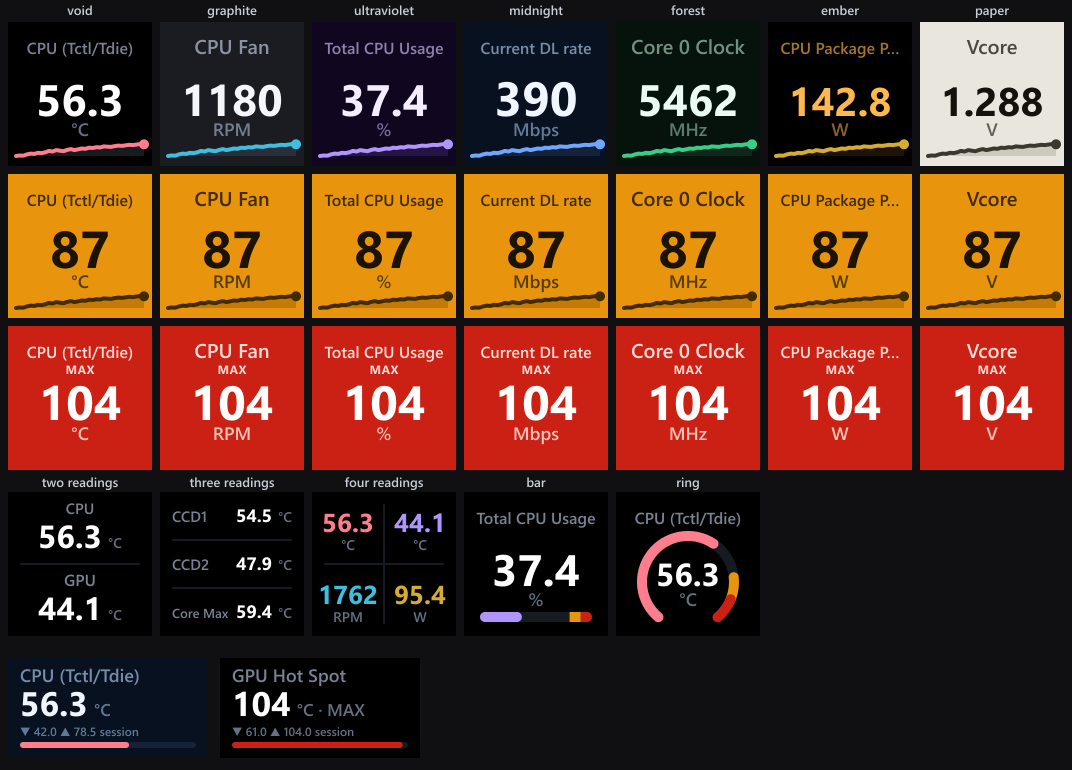
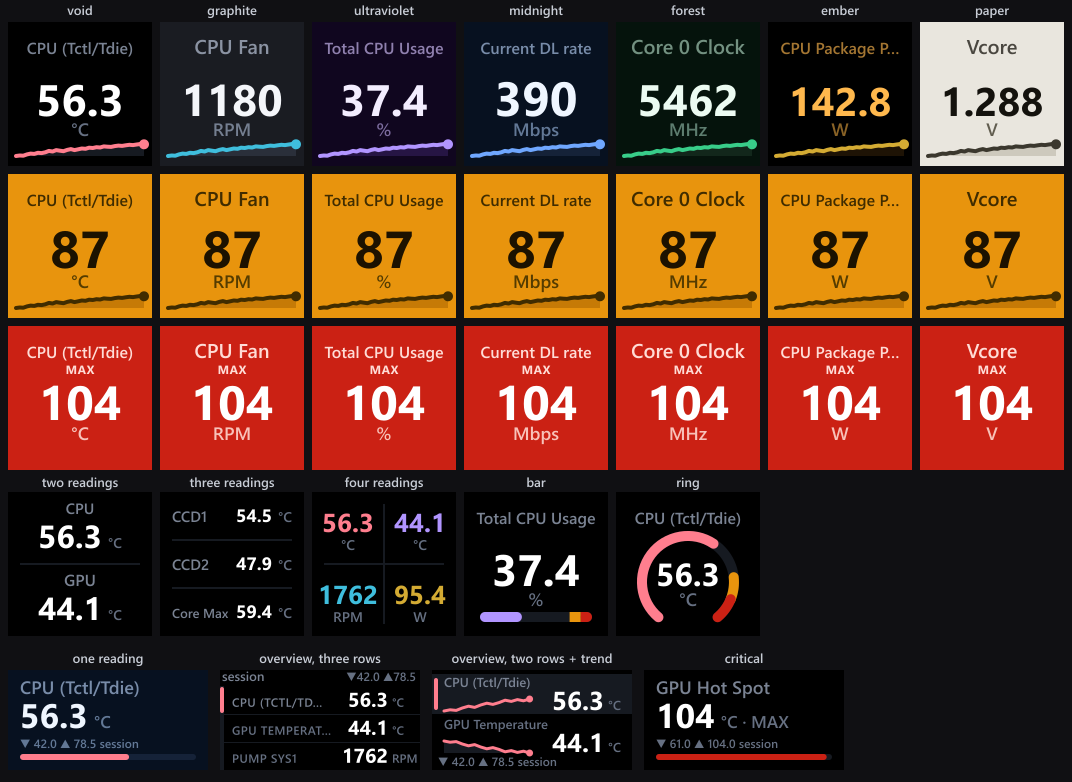
docs(marketing): the touchscreen faces join the hero sheet, at true scale
The sheet showed key faces only. Both multi-row touchscreen views, which are
the reason a Stream Deck + is worth owning with this plugin, appeared nowhere
in the image most readers see first.

It now ends with four touchscreen faces: one reading, the three-row overview,
the two-row overview with trend sparklines, and a critical state. Every face
on the sheet is drawn at 1x, so a 144x144 key sits next to a 200x100
touchscreen slot at the real hardware ratio. That is the point of putting them
in one image: a tall square and a wide short strip are different surfaces, and
scaling either to look tidy would hide it.

Alt text updated in the four pages that embed the sheet.

diff --git a/docs/index.md b/docs/index.md
@@ -7,7 +7,7 @@ description: >-
 
 **HWiNFO Sensors** puts live [HWiNFO](https://www.hwinfo.com) readings (temperatures, clocks, fan speeds, usage, power, voltages and everything else HWiNFO measures) directly onto your Elgato Stream Deck. A key shows one value with an optional warn/critical color and a sparkline, bar or ring under it, stacks two readings, lists three as compact rows, or splits into a quad grid of four; on a Stream Deck + or Stream Deck + XL each dial gets a touchscreen readout with a range bar and per-reading session min/max, and you rotate to switch readings or list them in a two- or three-row overview. Seven display themes (per key or deck-wide) keep every key on the same visual language, the Text setting picks the value color, and data units render decimal or binary deck-wide. The design goal is a wall that reads like one instrument: the same anchors on every key, one bright element per face, and alert colors that override everything else.
 
-![HWiNFO Sensors on a Stream Deck: seven display themes across the top row (Void, Graphite, Ultraviolet, Midnight, Forest, Ember, Paper), each key showing a live value, unit and sparkline, below them the aviation-style amber warn and red critical alert states; then a row showing what one key can hold (two, three and four readings, and the Bar and Ring gauges); and two Stream Deck + dials with session range bars.]({{ '/assets/img/themes-contact-sheet.png' | relative_url }})
+![HWiNFO Sensors on a Stream Deck: seven display themes across the top row (Void, Graphite, Ultraviolet, Midnight, Forest, Ember, Paper), each key showing a live value, unit and sparkline, below them the aviation-style amber warn and red critical alert states; then a row showing what one key can hold (two, three and four readings, and the Bar and Ring gauges); and four Stream Deck + touchscreen faces at their true relative size, including both multi-row overviews.]({{ '/assets/img/themes-contact-sheet.png' | relative_url }})
 
 ## What you get
 

diff --git a/docs/themes.md b/docs/themes.md
@@ -19,7 +19,7 @@ Pick a theme from the live gallery in any key's or dial's settings (the **Theme*
 | **Ember** | Amber-on-black monochrome: VFD/nostalgia look, warm amber value on true black. |
 | **Paper** | High-contrast light theme (near-black ink on warm paper `#E9E6DE`) for bright rooms and low vision. |
 
-![A contact sheet of the seven themes (Void, Graphite, Ultraviolet, Midnight, Forest, Ember, Paper), each key showing a live value, unit and sparkline, with the amber warn and red critical alert states below them, then a row showing what one key can hold (two, three and four readings, and the Bar and Ring gauges), and two Stream Deck + dials with session range bars.]({{ '/assets/img/themes-contact-sheet.png' | relative_url }})
+![A contact sheet of the seven themes (Void, Graphite, Ultraviolet, Midnight, Forest, Ember, Paper), each key showing a live value, unit and sparkline, with the amber warn and red critical alert states below them, then a row showing what one key can hold (two, three and four readings, and the Bar and Ring gauges), and four Stream Deck + touchscreen faces at their true relative size, including both multi-row overviews.]({{ '/assets/img/themes-contact-sheet.png' | relative_url }})
 
 > **Note:** Void is the default for new installs. Graphite is the pre-theme legacy look. If you had the plugin configured before themes existed, the deck default stays on **Graphite** so nothing changes visually; a genuinely fresh install starts on **Void**. Either way, the moment you pick any theme yourself, that choice takes over.
 

diff --git a/docs/thresholds-alerts.md b/docs/thresholds-alerts.md
@@ -66,7 +66,7 @@ A typical desktop-CPU key in °C:
 
 Idle and under load the key stays themed. At 80 °C it goes amber; at 90 °C it goes red. If you'd rather read the face in Fahrenheit, tick *Show temperatures in °F* **and** enter the thresholds in °F (e.g. `176` / `194`); the numbers must match the displayed unit.
 
-![HWiNFO Sensors on a Stream Deck: seven display themes across the top row (Void, Graphite, Ultraviolet, Midnight, Forest, Ember, Paper), each key showing a live value, unit and sparkline; below them the aviation-style amber warn and red critical alert states; then a row showing what one key can hold (two, three and four readings, and the Bar and Ring gauges); and two Stream Deck + dials with session range bars.]({{ '/assets/img/themes-contact-sheet.png' | relative_url }})
+![HWiNFO Sensors on a Stream Deck: seven display themes across the top row (Void, Graphite, Ultraviolet, Midnight, Forest, Ember, Paper), each key showing a live value, unit and sparkline; below them the aviation-style amber warn and red critical alert states; then a row showing what one key can hold (two, three and four readings, and the Bar and Ring gauges); and four Stream Deck + touchscreen faces at their true relative size, including both multi-row overviews.]({{ '/assets/img/themes-contact-sheet.png' | relative_url }})
 
 ### Fan RPM: alert when it drops
 

diff --git a/README.md b/README.md
@@ -2,7 +2,7 @@
 
 <p align="center">
   <img src="docs/assets/img/themes-contact-sheet.png" width="900"
-       alt="HWiNFO Sensors on a Stream Deck: seven display themes across the top row (Void, Graphite, Ultraviolet, Midnight, Forest, Ember, Paper), each key showing a live value, unit and sparkline; below them the aviation-style amber warn and red critical alert states; then a row showing what one key can hold (two, three and four readings, and the Bar and Ring gauges); and two Stream Deck + dials with session range bars">
+       alt="HWiNFO Sensors on a Stream Deck: seven display themes across the top row (Void, Graphite, Ultraviolet, Midnight, Forest, Ember, Paper), each key showing a live value, unit and sparkline; below them the aviation-style amber warn and red critical alert states; then a row showing what one key can hold (two, three and four readings, and the Bar and Ring gauges); and four Stream Deck + touchscreen faces at their true relative size, including both multi-row overviews">
 </p>
 
 <p align="center">
